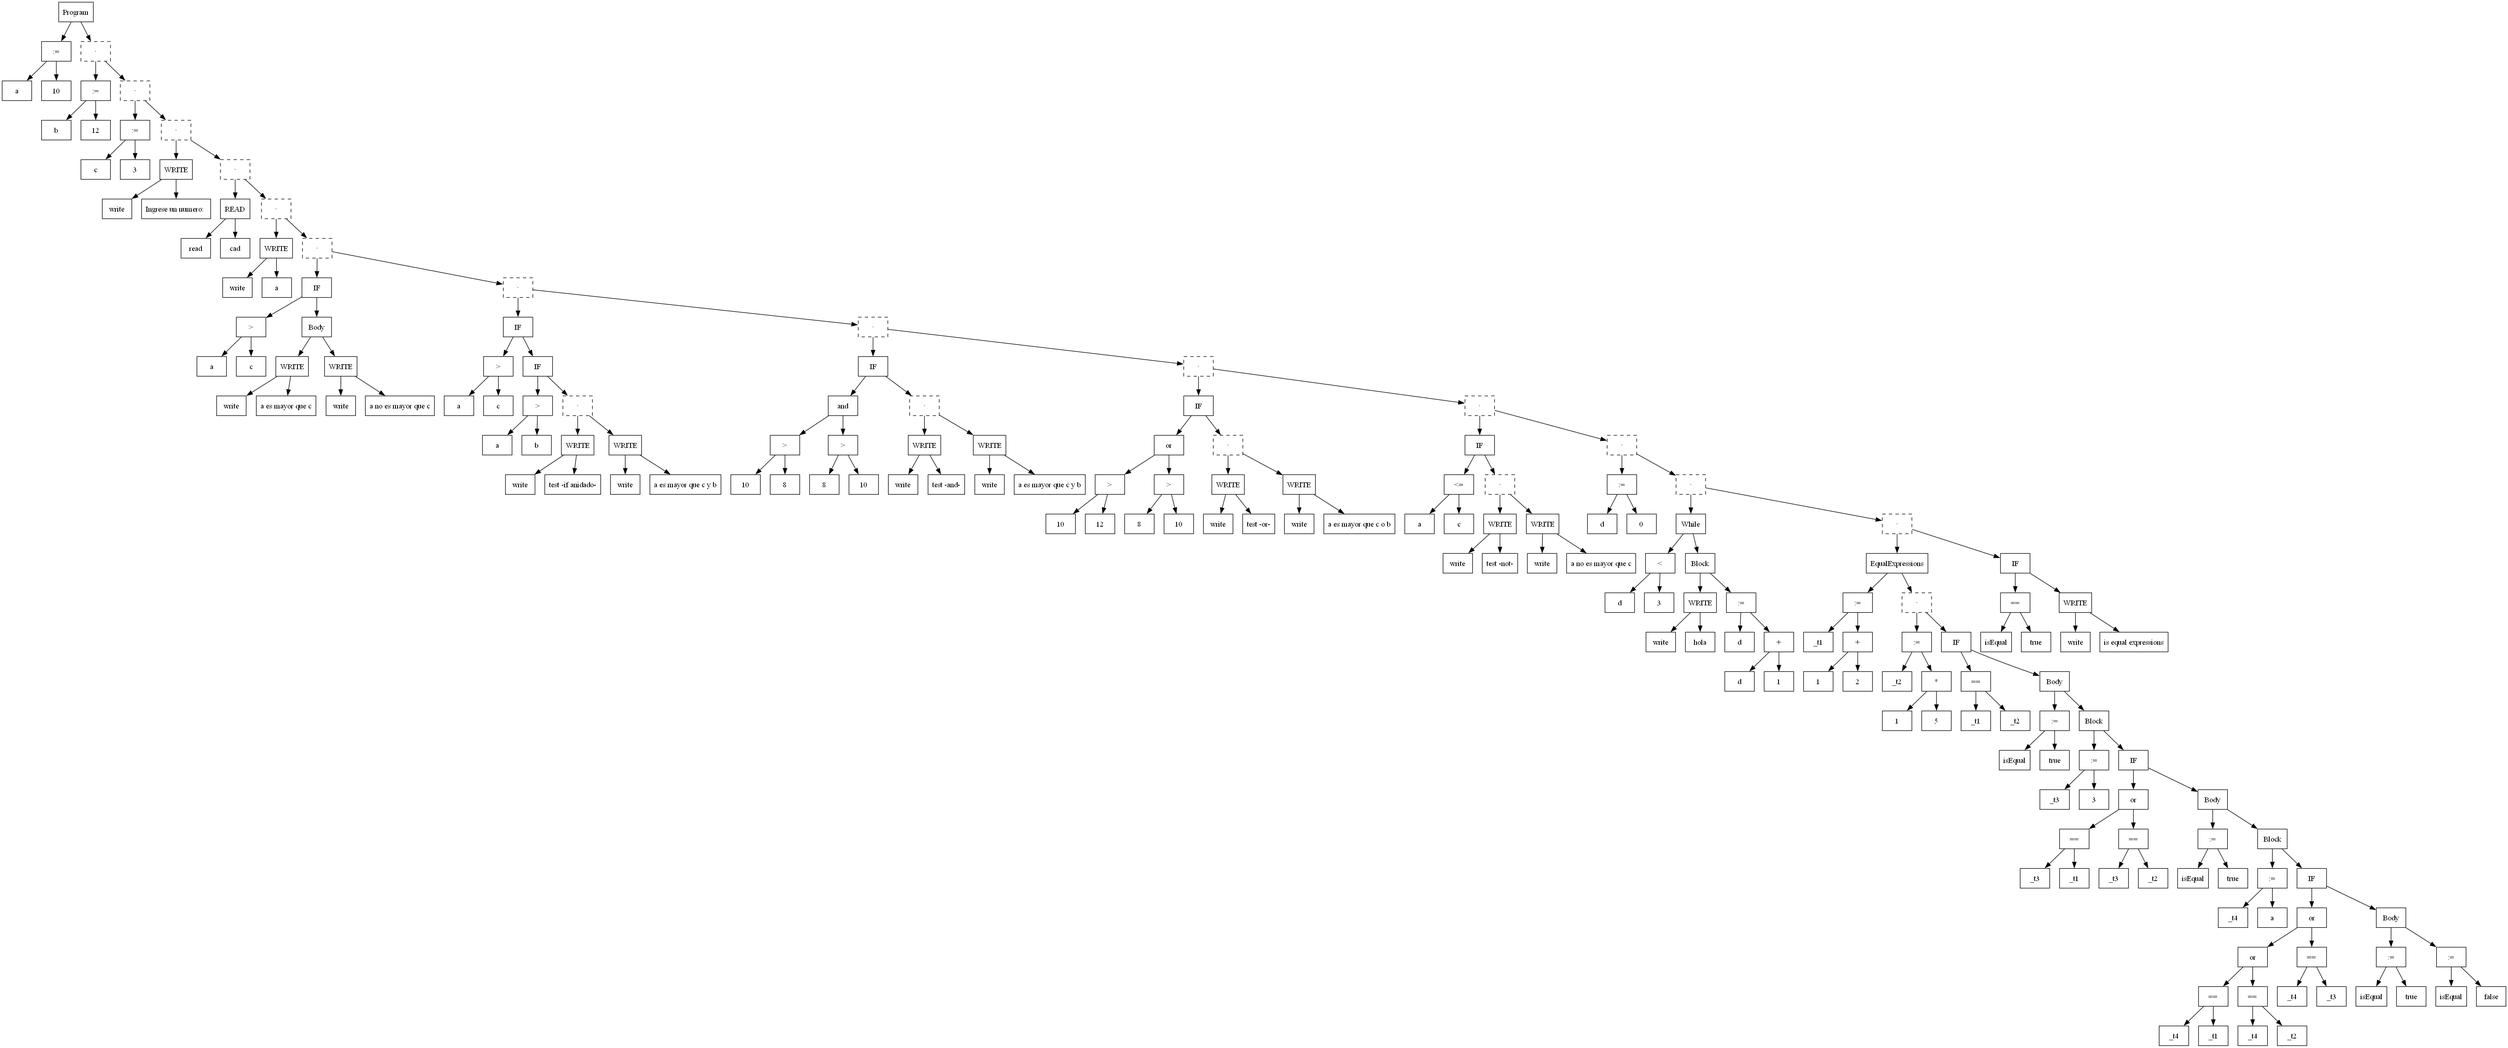
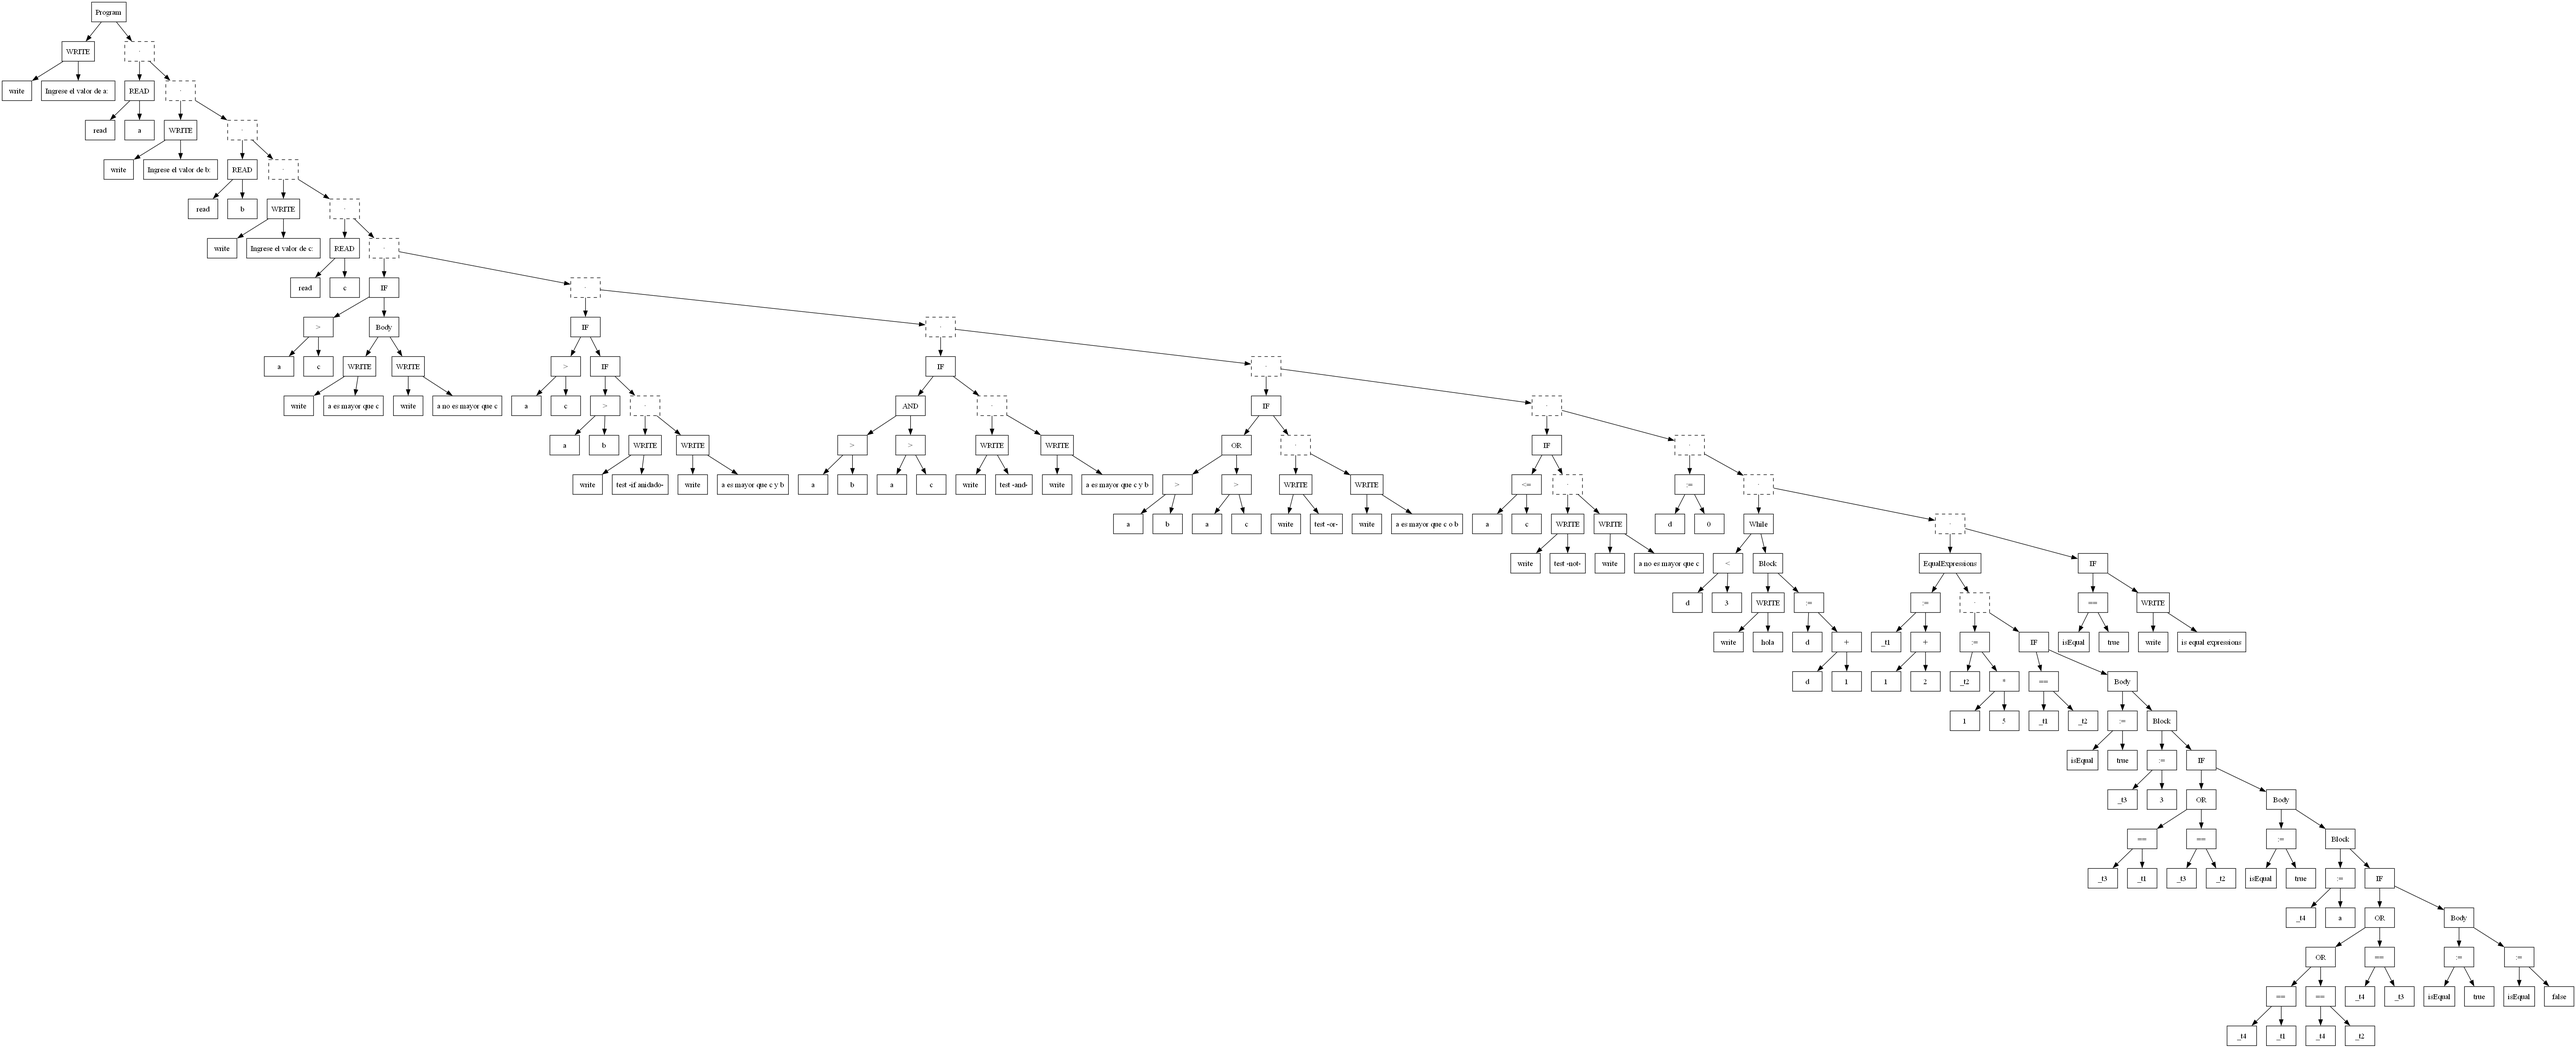
'or' and 'and' conditions fixed

diff --git a/parser.py b/parser.py
@@ -217,7 +217,7 @@ def p_asignacion(p):
                     comps.append(ASTNode('==', children=[tk, temps[i]], dtype='Bool'))
                 cond = comps[0]
                 for c in comps[1:]:
-                    cond = ASTNode('or', children=[cond, c], dtype='Bool')
+                    cond = ASTNode('OR', children=[cond, c], dtype='Bool')
                 then_true = ASTNode(':=', children=[target_var, ASTNode('true', dtype='Bool')])
                 body = ASTNode('Body', children=[then_true, else_branch])
                 if_node = ASTNode('IF', children=[cond, body])
@@ -354,7 +354,8 @@ def p_condicion(p):
             lit_true_right = ASTNode('true', dtype='Bool')
             left_cmp = ASTNode('==', children=[v1, lit_true_left], dtype='Bool')
             right_cmp = ASTNode('==', children=[v2, lit_true_right], dtype='Bool')
-            node = ASTNode(p[2], children=[left_cmp, right_cmp], dtype='Bool')
+            op_type = p.slice[2].type  # 'AND' or 'OR'
+            node = ASTNode(op_type, children=[left_cmp, right_cmp], dtype='Bool')
             p[0] = node
             return
         print(f'comparacion {p.slice[2].type} comparacion -> condicion')
@@ -366,7 +367,8 @@ def p_condicion(p):
             except Exception:
                 lineno = 0
             raise Exception(f"Error semántico (línea {lineno}): operadores lógicos requieren operandos booleanos")
-        node = ASTNode(p[2], children=[p[1], p[3]], dtype='Bool')
+        op_type = p.slice[2].type  # 'AND' or 'OR'
+        node = ASTNode(op_type, children=[p[1], p[3]], dtype='Bool')
     elif len(p) == 3:
         # NOT of comparison or NOT of boolean variable
         if p.slice[2].type == 'VARIABLE':
